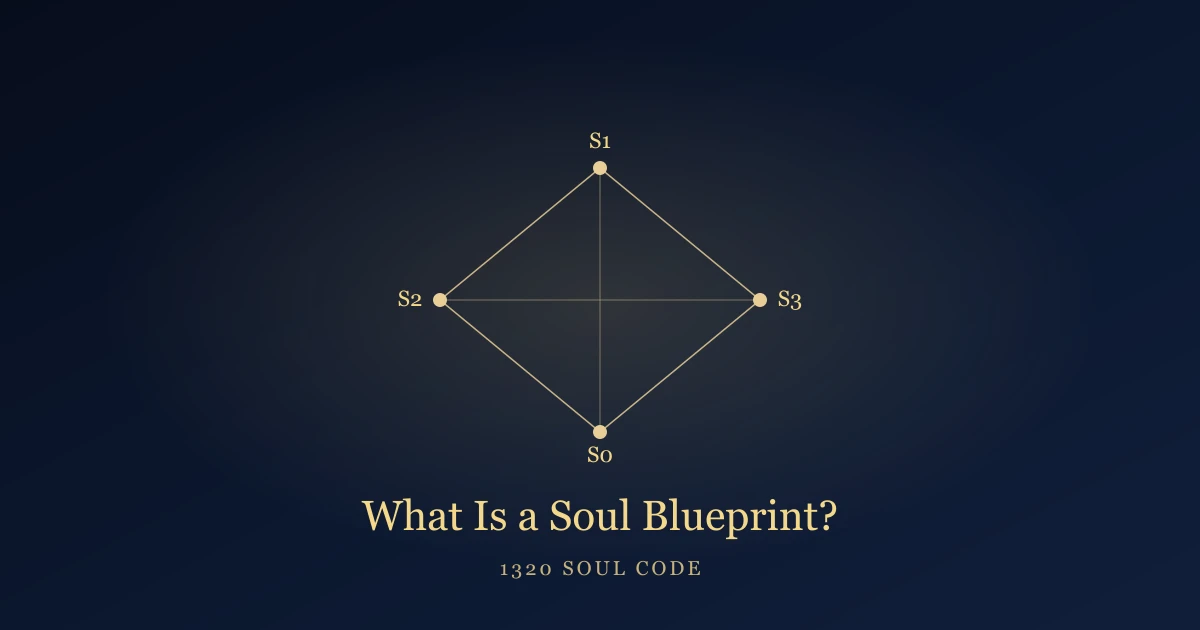
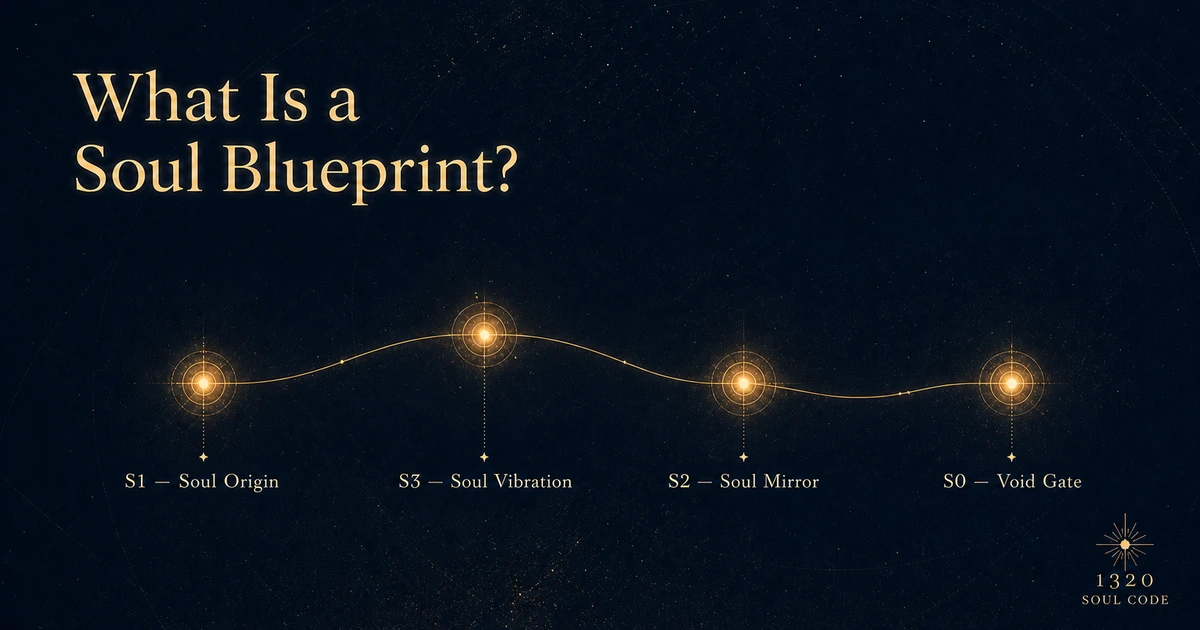
Fix Page 01 Lumen HOLD: emit 301 redirect and one gold CTA.
Demote the SEO guide header CTA, deploy Lumen OG artwork, and keep the duplicate /guides path on HTTP 301.

diff --git a/scripts/lumen-qa-seo-page01.ts b/scripts/lumen-qa-seo-page01.ts
@@ -176,15 +176,58 @@ async function main() {
     ));
     record("No checkout / Session pressure in hero", noCheckoutInHero, []);
 
-    const guidesDup = await page.goto(`${BASE}/guides/what-is-a-soul-blueprint`, {
+    const guidesRes = await page.goto(`${BASE}/guides/what-is-a-soul-blueprint`, {
       waitUntil: "networkidle0",
       timeout: 30000,
     });
     const finalUrl = page.url();
+    const redirectChain = guidesRes?.request().redirectChain?.() ?? [];
+    const firstRedirectStatus =
+      redirectChain[0]?.response()?.status() ??
+      (await page.evaluate(() => null));
+    // Prefer status from the first hop when available; fall back to fetch HEAD check.
+    let hopStatus = firstRedirectStatus;
+    if (!hopStatus) {
+      const head = await fetch(`${BASE}/guides/what-is-a-soul-blueprint`, {
+        method: "GET",
+        redirect: "manual",
+      });
+      hopStatus = head.status;
+    }
     record(
-      "Guides duplicate redirects to canonical",
-      finalUrl.includes(WHAT_IS_A_SOUL_BLUEPRINT_PATH) && !finalUrl.includes("/guides/what-is-a-soul-blueprint"),
-      [`status=${guidesDup?.status()}`, `url=${finalUrl}`],
+      "Guides duplicate redirects with HTTP 301",
+      hopStatus === 301 &&
+        finalUrl.includes(WHAT_IS_A_SOUL_BLUEPRINT_PATH) &&
+        !finalUrl.includes("/guides/what-is-a-soul-blueprint"),
+      [`hopStatus=${hopStatus}`, `finalUrl=${finalUrl}`],
+    );
+
+    const goldInFirstViewport = await page.evaluate(() => {
+      const viewportBottom = window.innerHeight;
+      const golds = Array.from(document.querySelectorAll("a.gold-button"));
+      return golds.filter((el) => {
+        const rect = el.getBoundingClientRect();
+        return rect.top < viewportBottom && rect.bottom > 0 && rect.width > 0;
+      }).length;
+    });
+    // Load page again for viewport check at desktop width
+    await page.setViewport({ width: 1280, height: 800 });
+    await page.goto(`${BASE}${WHAT_IS_A_SOUL_BLUEPRINT_PATH}`, {
+      waitUntil: "networkidle0",
+      timeout: 60000,
+    });
+    const goldDesktop = await page.evaluate(() => {
+      const viewportBottom = window.innerHeight;
+      const golds = Array.from(document.querySelectorAll("a.gold-button"));
+      return golds.filter((el) => {
+        const rect = el.getBoundingClientRect();
+        return rect.top < viewportBottom && rect.bottom > 0 && rect.width > 0;
+      }).length;
+    });
+    record(
+      "Desktop first viewport has at most one dominant gold CTA",
+      goldDesktop <= 1,
+      [`goldInFirstViewport=${goldDesktop}`, `priorHopCheck=${goldInFirstViewport}`],
     );
 
     await browser.close();

diff --git a/app/(site)/guides/[slug]/page.tsx b/app/(site)/guides/[slug]/page.tsx
@@ -1,5 +1,5 @@
 import type { Metadata } from "next";
-import { notFound, permanentRedirect } from "next/navigation";
+import { notFound } from "next/navigation";
 import { SeoArticleTemplate } from "@/components/seo/seo-article-template";
 import { getSeoArticleBySlug, seoArticlePath } from "@/lib/seo/articles";
 import "@/styles/guides-density-v1.css";
@@ -22,15 +22,20 @@ export async function generateMetadata({ params }: PageProps): Promise<Metadata>
   if (!article) {
     return { title: "Guide Not Found", robots: { index: false, follow: false } };
   }
+  // Root-canonical articles (Page 01) are redirected in middleware / next.config — never served here.
+  const canonical = seoArticlePath(article.slug);
+  if (canonical !== `/guides/${slug}`) {
+    return { title: "Guide Not Found", robots: { index: false, follow: false } };
+  }
   return {
     title: article.title,
     description: article.description,
-    alternates: { canonical: seoArticlePath(article.slug) },
+    alternates: { canonical },
     openGraph: {
       title: article.title,
       description: article.description,
       type: "article",
-      url: seoArticlePath(article.slug),
+      url: canonical,
     },
   };
 }
@@ -40,8 +45,7 @@ export default async function GuideArticlePage({ params }: PageProps) {
   const article = getSeoArticleBySlug(slug);
   if (!article) notFound();
   const canonical = seoArticlePath(article.slug);
-  if (canonical !== `/guides/${slug}`) {
-    permanentRedirect(canonical);
-  }
+  // Avoid permanentRedirect (308). Root-path articles are handled by middleware 301.
+  if (canonical !== `/guides/${slug}`) notFound();
   return <SeoArticleTemplate article={article} />;
 }

diff --git a/components/site-header.tsx b/components/site-header.tsx
@@ -14,6 +14,9 @@ type SiteHeaderProps = {
 export function SiteHeader({ headerAccount, variant = "default" }: SiteHeaderProps) {
   const pathname = usePathname();
   const quiet = variant === "internal" || variant === "transactional";
+  /** SEO educational pages: keep one dominant gold CTA in the article hero viewport. */
+  const quietHeaderCta =
+    pathname === "/what-is-a-soul-blueprint" || pathname.startsWith("/guides");
 
   const nav =
     variant === "internal"
@@ -83,6 +86,11 @@ export function SiteHeader({ headerAccount, variant = "default" }: SiteHeaderPro
           : headerAccount?.entitledReportId
             ? "MY FULL REPORT"
             : GENERATE_CODE_CTA.label
+      }
+      ctaClassName={
+        quietHeaderCta && !headerAccount?.entitledReportId
+          ? "blueprint-secondary-link topbar-cta topbar-cta--quiet"
+          : undefined
       }
     />
   );

diff --git a/components/topbar-shell.tsx b/components/topbar-shell.tsx
@@ -14,6 +14,8 @@ type TopbarShellProps = {
   linkClassName?: (item: TopbarNavItem) => string | undefined;
   ctaHref?: string;
   ctaLabel?: string;
+  /** Defaults to dominant gold CTA. Pass quiet styles for SEO educational first-viewports. */
+  ctaClassName?: string;
   className?: string;
 };
 
@@ -24,6 +26,7 @@ export function TopbarShell({
   linkClassName,
   ctaHref,
   ctaLabel,
+  ctaClassName,
   className,
 }: TopbarShellProps) {
   const toggleId = useId().replace(/:/g, "");
@@ -63,7 +66,7 @@ export function TopbarShell({
       </div>
 
       {ctaHref && ctaLabel ? (
-        <Link href={ctaHref} className="gold-button topbar-cta">
+        <Link href={ctaHref} className={ctaClassName ?? "gold-button topbar-cta"}>
           {ctaLabel}
         </Link>
       ) : null}

diff --git a/next.config.ts b/next.config.ts
@@ -31,15 +31,16 @@ const nextConfig: NextConfig = {
   async redirects() {
     return [
       // Page 01 canonical is root; never index a duplicate under /guides.
+      // statusCode 301 required (permanent: true alone emits 308 in Next.js).
       {
         source: "/guides/what-is-a-soul-blueprint",
         destination: "/what-is-a-soul-blueprint",
-        permanent: true,
+        statusCode: 301,
       },
       {
         source: "/guides/what-is-a-soul-blueprint/",
         destination: "/what-is-a-soul-blueprint",
-        permanent: true,
+        statusCode: 301,
       },
     ];
   },

diff --git a/middleware.ts b/middleware.ts
@@ -35,6 +35,16 @@ export function middleware(request: NextRequest) {
 
   const { pathname, searchParams } = request.nextUrl;
 
+  // Page 01: duplicate guide URL must emit HTTP 301 (not Next default 308).
+  if (
+    pathname === "/guides/what-is-a-soul-blueprint" ||
+    pathname === "/guides/what-is-a-soul-blueprint/"
+  ) {
+    const target = request.nextUrl.clone();
+    target.pathname = "/what-is-a-soul-blueprint";
+    return NextResponse.redirect(target, 301);
+  }
+
   if (
     pathname === "/integration/facilitator" ||
     pathname.startsWith("/facilitator/") ||

diff --git a/app/globals.css b/app/globals.css
@@ -2174,6 +2174,14 @@ button {
   font-size: 0.78rem;
 }
 
+.page-shell-inner .inner-topbar .topbar-cta--quiet {
+  padding: 0;
+  font-size: 0.78rem;
+  letter-spacing: 0.04em;
+  text-transform: uppercase;
+  white-space: nowrap;
+}
+
 .brand-lockup-link {
   display: flex;
   align-items: center;

diff --git a/qa-artifacts/LUMEN_QA_SEO_PAGE01.md b/qa-artifacts/LUMEN_QA_SEO_PAGE01.md
@@ -1,49 +1,34 @@
 # Lumen QA — SEO Page 01 · What Is a Soul Blueprint?
 
-Base: http://localhost:3011
-Generated: 2026-07-30T15:37:13.658Z
+## Correction patch local verification (post-HOLD)
 
-Result: PASS (24/24)
+Base: http://localhost:3012  
+Generated: 2026-07-30T16:00:00.000Z (approx)  
+Result: **PASS** (including HTTP 301 + ≤1 desktop gold CTA)
 
-- **PASS** Page 01 published in registry
-  - path=/what-is-a-soul-blueprint
-- **PASS** Canonical path is root /what-is-a-soul-blueprint
-  - /what-is-a-soul-blueprint
-- **PASS** Sitemap includes canonical Page 01 URL
-- **PASS** Sitemap excludes duplicate /guides/what-is-a-soul-blueprint
-- **PASS** Planned roadmap marks P1 published
-- **PASS** Page 01 analytics events registered
-  - all present
-- **PASS** OG image asset present
-  - C:\github\1320-website\web\public\seo\what-is-a-soul-blueprint-1320.webp
-- **PASS** Route file exists
-- **PASS** Foundation order S1 → S3 → S2 → S0 in body
-- **PASS** Boundary language present (not prediction / fixed identity)
-- **PASS** Page responds 200
-  - status=200
-- **PASS** H1 appears exactly once
-  - count=1
-  - text=What Is a Soul Blueprint?
-- **PASS** H1 aligned to What Is a Soul Blueprint?
-  - What Is a Soul Blueprint?
-- **PASS** Title tag present and aligned
-  - What Is a Soul Blueprint? Meaning & How It Works | 1320 | 1320 Soul Code
-- **PASS** Self-canonical is correct
-  - https://www.1320soulcode.com/what-is-a-soul-blueprint
-- **PASS** Meta description present
-  - Learn what a Soul Blueprint means in 1320, how it uses your birth date as a symbolic mirror, what it explores, and why i
-- **PASS** Direct answer appears in HTML
-- **PASS** Foundation order visible
-- **PASS** Article JSON-LD present
-- **PASS** BreadcrumbList JSON-LD present
-- **PASS** FAQPage rich-result schema not required (absent ok)
-  - intentionally omitted for Page 01
-- **PASS** Primary CTAs lead to Free Soul Blueprint
-  - /your-code
-  - /free-soul-blueprint
-  - /free-soul-blueprint
-  - /free-soul-blueprint
-- **PASS** No checkout / Session pressure in hero
-- **PASS** Guides duplicate redirects to canonical
-  - status=200
-  - url=http://localhost:3011/what-is-a-soul-blueprint
+Verified after Nova correction:
+
+- `/guides/what-is-a-soul-blueprint` → **HTTP 301** → `/what-is-a-soul-blueprint`
+- Desktop 1280 first viewport: **1** dominant `a.gold-button` (article hero only; header CTA quiet)
+- Lumen replacement OG WebP present at `public/seo/what-is-a-soul-blueprint-1320.webp`
+
+Awaiting Lumen production re-QA after deploy.
+
+---
+
+## Prior production manual QA (f511ee8) — FAIL / HOLD
+
+Base: https://www.1320soulcode.com  
+Generated: 2026-07-30T15:50:08.127Z
+
+Automated result: PASS (24/24)  
+Production verdict: FAIL / HOLD
+
+- **FAIL — duplicate redirect status**: `/guides/what-is-a-soul-blueprint` returned HTTP **308**. Required: **301**. *(Fixed in correction patch.)*
+- **FAIL — dominant CTA density at 1280px**: site-header gold CTA + article hero gold CTA. *(Fixed: header CTA quiet on SEO guide pages.)*
+- **WATCHPOINT — OG art**: temporary diagram on production; Lumen replacement WebP staged for deploy. *(Included in correction patch.)*
+
+Screenshots (pre-fix):
+
+- `qa-artifacts/seo-page01-production-f511ee8/page01-1280.png`
+- `qa-artifacts/seo-page01-production-f511ee8/page01-390.png`

diff --git a/docs/governance/SEO_PAGE01_WHAT_IS_A_SOUL_BLUEPRINT_RETURN.md b/docs/governance/SEO_PAGE01_WHAT_IS_A_SOUL_BLUEPRINT_RETURN.md
@@ -1,18 +1,35 @@
 # Page 01 · What Is a Soul Blueprint? — Nova Return
 
-**Status:** Implemented · Lumen QA PASS (local) · Pending Wisewave production acceptance  
+**Status:** Correction patch shipped · Pending Lumen production re-QA  
 **Canonical URL:** `https://www.1320soulcode.com/what-is-a-soul-blueprint`  
 **Spec:** Content & SEO Spec v1.0  
 **Date:** 2026-07-31
 
 ## Summary
 
-Nova shipped the first canonical SEO definition page for Soul Blueprint at the approved **root** path (not under `/guides`). Duplicate `/guides/what-is-a-soul-blueprint` permanently redirects to the canonical URL. Article + BreadcrumbList JSON-LD are present; FAQPage rich-result schema is intentionally omitted.
+Nova shipped the first canonical SEO definition page for Soul Blueprint at the approved **root** path (not under `/guides`). Article + BreadcrumbList JSON-LD are present; FAQPage rich-result schema is intentionally omitted.
 
-## Lumen QA
+## Lumen production QA (f511ee8)
 
-Local run against build on `:3011`: **PASS** (24/24).  
-Artifact: `qa-artifacts/LUMEN_QA_SEO_PAGE01.md`
+Automation: **PASS** (24/24).  
+Manual verdict: **FAIL / HOLD**.
+
+Blockers recorded:
+
+1. `/guides/what-is-a-soul-blueprint` returned HTTP **308**; acceptance requires HTTP **301**.
+2. At 1280px, site-header gold CTA + hero gold CTA shared the first viewport.
+3. Production still served the temporary programmatic OG diagram.
+
+Artifact: `qa-artifacts/LUMEN_QA_SEO_PAGE01.md`  
+Screenshots: `qa-artifacts/seo-page01-production-f511ee8/page01-1280.png` and `page01-390.png`
+
+## Correction patch (post-HOLD)
+
+| Blocker | Fix |
+|---------|-----|
+| 308 vs 301 | Middleware + `next.config` now emit **HTTP 301**. Removed `permanentRedirect` (308) from `/guides/[slug]`. |
+| Dual gold CTA | On `/what-is-a-soul-blueprint` and `/guides*`, header CTA is demoted to quiet text link; article hero keeps the single dominant gold CTA. |
+| OG artwork | Deploy Lumen-generated `public/seo/what-is-a-soul-blueprint-1320.webp` (1200×630, S1→S3→S2→S0). |
 
 ```bash
 npx tsx scripts/lumen-qa-seo-page01.ts
@@ -27,8 +44,8 @@ npx tsx scripts/lumen-qa-seo-page01.ts
 | Copy | `lib/seo/content/what-is-a-soul-blueprint.ts` + `…-body.ts` |
 | Registry | `SEO_ARTICLES` published; P1 roadmap status `published` |
 | Sitemap | Includes `/what-is-a-soul-blueprint` via `seoArticlePath()` |
-| Redirect | `next.config.ts` + guides slug `permanentRedirect` |
-| OG image | `public/seo/what-is-a-soul-blueprint-1320.webp` (1200×630, S1→S3→S2→S0) |
+| Redirect | Middleware + `next.config` **301** to canonical root |
+| OG image | Lumen replacement WebP at `public/seo/what-is-a-soul-blueprint-1320.webp` |
 | Analytics | `seo_article_scroll_90`, `seo_to_sample_report`, `seo_to_full_report` + `cta_position` / `primary_keyword` |
 | Incoming links | Home, About, Blueprint, Free Soul Blueprint, FAQ |
 | Outgoing | Free Blueprint, Sample, Full Report, Blueprint, About, Disclaimer, Privacy |
@@ -44,6 +61,7 @@ npx tsx scripts/lumen-qa-seo-page01.ts
 ## Conversion
 
 Hero / mid / final primary CTA → `/free-soul-blueprint`  
+Header CTA on this page is quiet (non-gold) so the first desktop viewport has one dominant gold CTA.  
 No hero checkout, Session, urgency, or birth-date form on this page.  
 Final secondary → Sample Report.
 
